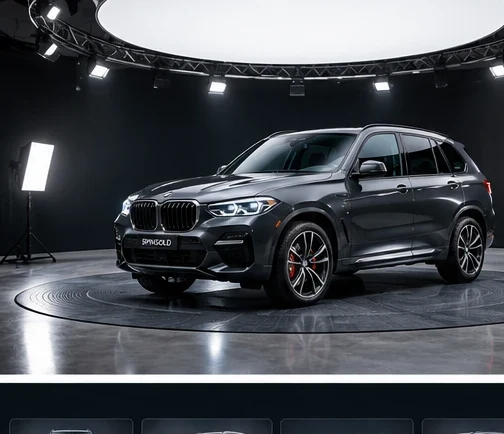
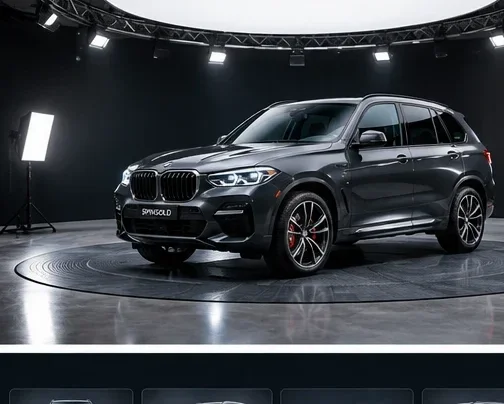
fix: SpinSold hero — full-width background image, crop white ceiling
- Crop white studio ceiling from hero-bmw.webp
- Create hero-bg.webp (1920px wide) for full-section background
- Hero section now has the studio image as a dimmed background
  with left-to-right gradient overlay for text readability
- BMW product shot stays as a focused element on the right

Claude-Session: https://claude.ai/code/session_019nQXoTTTjsi8gfFcyWTRe3

diff --git a/public/solutions/demos/spinsold/index.html b/public/solutions/demos/spinsold/index.html
@@ -149,8 +149,10 @@ img{display:block;max-width:100%}
 </header>
 
 <!-- HERO -->
-<section class="ss-dark" style="padding:100px 0 0;overflow:hidden">
-<div class="ss-container hero-grid" style="display:grid;grid-template-columns:1fr 1fr;gap:48px;align-items:center;min-height:calc(100vh - 260px)">
+<section class="ss-dark" style="position:relative;padding:100px 0 0;overflow:hidden">
+<div style="position:absolute;inset:0;background:url('/solutions/demos/spinsold/img/hero-bg.webp') center/cover no-repeat;opacity:.35"></div>
+<div style="position:absolute;inset:0;background:linear-gradient(to right,var(--graphite) 30%,transparent 70%)"></div>
+<div class="ss-container hero-grid" style="position:relative;z-index:1;display:grid;grid-template-columns:1fr 1fr;gap:48px;align-items:center;min-height:calc(100vh - 260px)">
   <div style="display:flex;flex-direction:column;gap:24px">
     <span class="ss-eyebrow" data-i18n="hero_eyebrow">Automated 360° vehicle studio</span>
     <h1 class="ss-display" data-i18n="hero_title" data-i18n-html="1">Spin it.<br>Sell it.</h1>
@@ -161,8 +163,8 @@ img{display:block;max-width:100%}
     </div>
   </div>
   <div class="hero-visual" style="position:relative;display:flex;align-items:center;justify-content:center">
-    <span class="ss-ring ss-ring--spin" style="--size:400px;--w:1px;position:absolute"><span class="ss-ring__arc"></span></span>
     <img src="/solutions/demos/spinsold/img/hero-bmw.webp" alt="BMW X5 on turntable in SpinSold studio" style="width:460px;aspect-ratio:4/3;margin:0;border-radius:var(--radius-xl);z-index:1;object-fit:cover">
+    <span class="ss-ring ss-ring--spin" style="--size:400px;--w:1px;position:absolute;z-index:2"><span class="ss-ring__arc"></span></span>
   </div>
 </div>
 <div class="ss-container" style="display:flex;justify-content:center;gap:48px;font:500 15px/1 var(--font-body);color:var(--steel-400);padding:48px 0 64px;flex-wrap:wrap">
